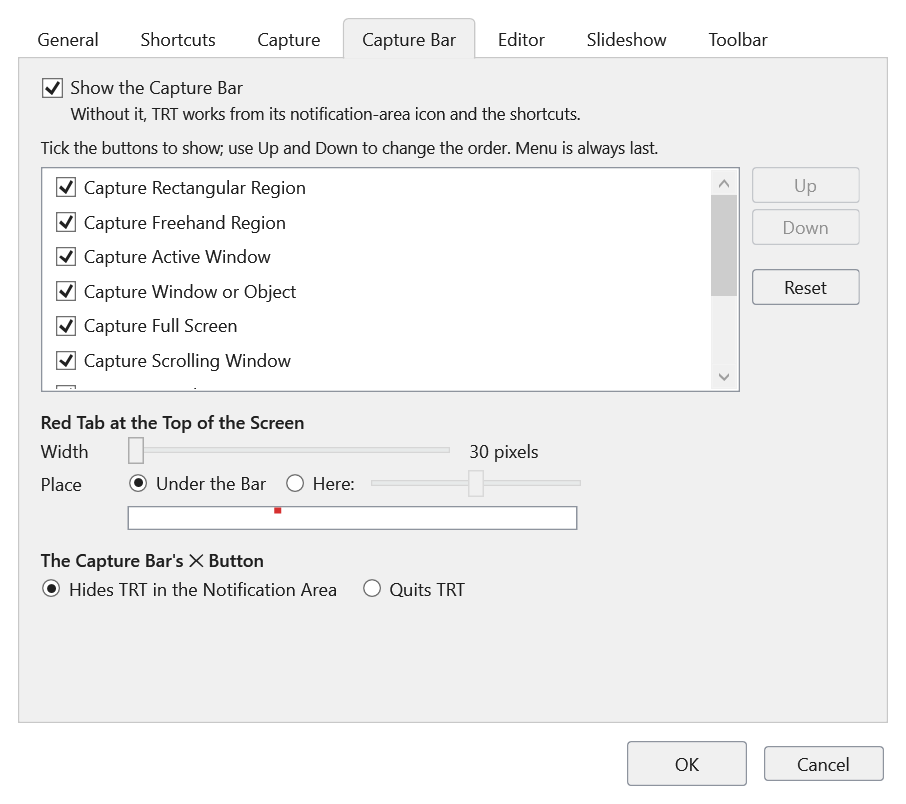
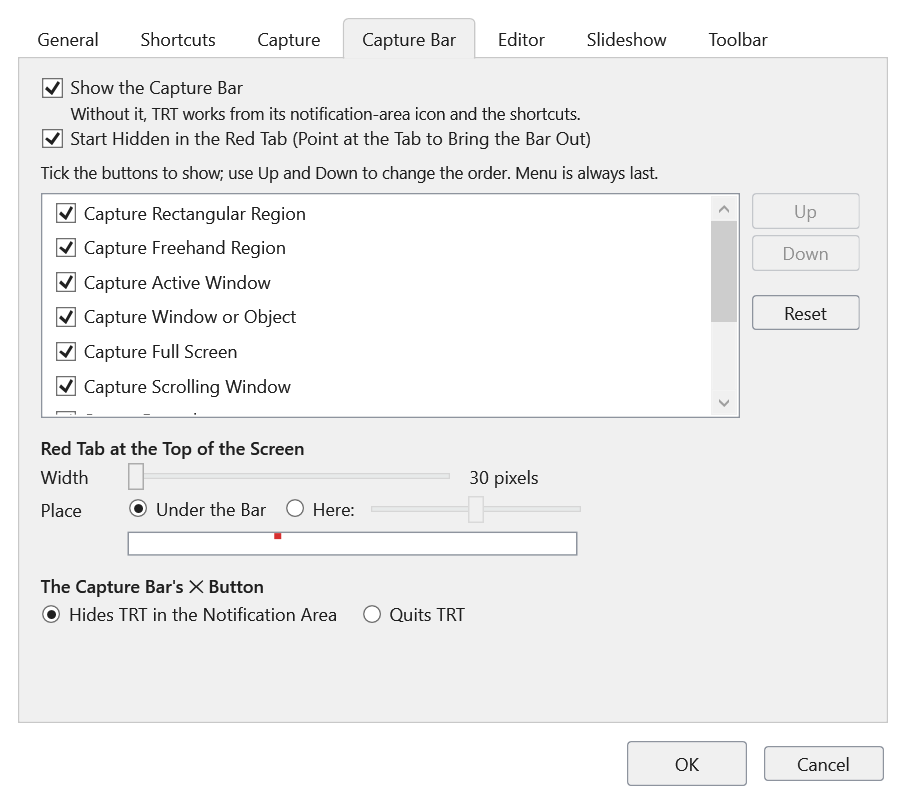
Capture bar starts hidden in the red tab (Settings > Capture Bar can start it open)

diff --git a/Desktop/SettingsWindow.xaml b/Desktop/SettingsWindow.xaml
@@ -87,7 +87,9 @@
    <TabItem Header="Capture Bar">
     <StackPanel>
      <CheckBox x:Name="ShowBarBox" Content="Show the Capture Bar" Margin="0,0,0,2"/>
-     <TextBlock Text="Without it, TRT works from its notification-area icon and the shortcuts." TextWrapping="Wrap" FontSize="11" Margin="20,0,0,8"/>
+     <TextBlock Text="Without it, TRT works from its notification-area icon and the shortcuts." TextWrapping="Wrap" FontSize="11" Margin="20,0,0,2"/>
+     <!-- 3.2.0 (David): start tucked away. -->
+     <CheckBox x:Name="StartInTabBox" Content="Start Hidden in the Red Tab (Point at the Tab to Bring the Bar Out)" Margin="0,0,0,8"/>
      <TextBlock Text="Tick the buttons to show; use Up and Down to change the order. Menu is always last." TextWrapping="Wrap" FontSize="11" Margin="0,0,0,6"/>
      <Grid>
       <Grid.ColumnDefinitions><ColumnDefinition Width="*"/><ColumnDefinition Width="Auto"/></Grid.ColumnDefinitions>

diff --git a/docs/help/TRT-Help.html b/docs/help/TRT-Help.html
@@ -376,7 +376,7 @@
 </table>
 <ul>
  <li><kbd>Ctrl</kbd>+<kbd>Print Screen</kbd> takes a rectangular screenshot at any time.</li>
- <li>The <span class="ui">–</span> button on the bar hides it in a thin red tab at the top of the screen. Point at the tab to bring the bar back.</li>
+ <li>The <span class="ui">–</span> button on the bar hides it in a thin red tab at the top of the screen. Point at the tab to bring the bar back. TRT starts with the bar in the tab; <span class="ui">Settings › Capture Bar</span> can start it open instead.</li>
  <li>You can drag the bar anywhere by its title. Drop it on the top edge of a screen and it tucks itself away.</li>
  <li>Click the TRT icon in the notification area to open the editor; double-click it to show the capture bar. <span class="ui">Settings › Editor</span> can swap them.</li>
 </ul>

diff --git a/Checks/Release320Checks.cs b/Checks/Release320Checks.cs
@@ -63,6 +63,25 @@ internal static class Release320Checks
             "Settings › Editor shows and keeps the line width, Auto Redaction Colour and the tray click choice");
         dialog.Close();
 
+        check(new AppSettings().StartBarInTab && !new SettingsWindow(new AppSettings { StartBarInTab = false }).Collect().StartBarInTab, "TRT starts with the capture bar in the red tab (Settings › Capture Bar can turn it off)");
+        {
+            var startTemp = Path.Combine(output, "release320-start"); if (Directory.Exists(startTemp)) Directory.Delete(startTemp, true); Directory.CreateDirectory(startTemp);
+            var startSaved = AppSettings.Path; AppSettings.Path = Path.Combine(output, "release320-start-settings.json"); if (File.Exists(AppSettings.Path)) File.Delete(AppSettings.Path);
+            var starting = new CaptureController(new ManagedPolicy(), false, startTemp) { MinimiseOnStart = true };
+            try
+            {
+                starting.Start();
+                check(starting.Bar is { IsVisible: false } && starting.Strip is { IsVisible: true }, "on start the bar waits in the red tab, not open");
+                starting.ShowBar();
+                check(starting.Bar!.IsVisible && starting.Strip?.IsVisible != true, "and comes out of the tab when asked (pointing at the tab, or the tray icon)");
+                File.WriteAllText(AppSettings.Path, "{\"StartBarInTab\": false}");
+                var open = new CaptureController(new ManagedPolicy(), false, startTemp) { MinimiseOnStart = true };
+                try { open.Start(); check(open.Bar is { IsVisible: true } && open.Strip?.IsVisible != true, "with the setting off, the bar starts open as before"); }
+                finally { open.Dispose(); }
+            }
+            finally { starting.Dispose(); AppSettings.Path = startSaved; }
+        }
+
         // ---- Pictures read by Windows ----
         var folder = Path.Combine(output, "release320"); if (Directory.Exists(folder)) Directory.Delete(folder, true); Directory.CreateDirectory(folder);
         var png = Path.Combine(folder, "see-through.png");

diff --git a/Desktop/SettingsWindow.xaml.cs b/Desktop/SettingsWindow.xaml.cs
@@ -49,6 +49,7 @@ public partial class SettingsWindow : Window
         HideOptionsBarBox.IsChecked = current.HideOptionsBar;
         LineWidthBox.Value = current.LineWidth; AutoColourSettingBox.IsChecked = current.AutoRedactionColour; // 3.2.0
         (current.TrayClickOpensEditor ? TrayEditorBox : TrayBarBox).IsChecked = true;
+        StartInTabBox.IsChecked = current.StartBarInTab;
         DelayChoice.SelectedItem = current.CaptureDelaySeconds;
         CapturePointerBox.IsChecked = current.CaptureMousePointer;
         FullScreenChoice.SelectedIndex = current.FullScreenAllMonitors ? 1 : 0;
@@ -264,6 +265,7 @@ public partial class SettingsWindow : Window
         Result.HideOptionsBar = HideOptionsBarBox.IsChecked == true;
         Result.LineWidth = (int)Math.Clamp(Math.Round(LineWidthBox.Value), AppSettings.MinLineWidth, AppSettings.MaxLineWidth);
         Result.AutoRedactionColour = AutoColourSettingBox.IsChecked == true; Result.TrayClickOpensEditor = TrayEditorBox.IsChecked == true;
+        Result.StartBarInTab = StartInTabBox.IsChecked == true;
         StartupChosen = StartupBox.IsChecked == true;
         ThemeChosen = ThemeShown;
         Result.CaptureDelaySeconds = DelayChoice.SelectedItem is int delay ? delay : 0;

diff --git a/Desktop/CaptureController.cs b/Desktop/CaptureController.cs
@@ -90,12 +90,16 @@ internal sealed class CaptureController : IDisposable
         {
             bar.Show();
             if (Settings.BarTop is { } savedTop && Math.Abs(savedTop - WorkAreaOf(bar).Top) < 1) BarMoved(); // Was docked last time.
+            // 3.2.0 (David): TRT starts with the bar tucked into the red tab; pointing at the tab brings it out.
+            if (Settings.StartBarInTab && (MinimiseOnStart ?? interactive)) MinimizeToStrip();
         }
         if (interactive)
         {
             bar.Dispatcher.BeginInvoke(DispatcherPriority.ApplicationIdle, () => { ReportShortcutProblems(); OfferAbandonedCleanup(); });
         }
     }
+    // Checks (which start without the real tray and shortcuts) set this to see the start-up tab.
+    internal bool? MinimiseOnStart { get; set; }
     private void PlaceBar()
     {
         if (bar == null) return;

diff --git a/Desktop/AppSettings.cs b/Desktop/AppSettings.cs
@@ -151,6 +151,8 @@ public sealed class AppSettings
     // 3.2.0 (David): a single click on the notification-area icon opens the editor and a double-click shows the capture
     // bar; false swaps them back (the bar on a single click, as before).
     public bool TrayClickOpensEditor { get; set; } = true;
+    // 3.2.0 (David): when TRT starts, the capture bar waits in the red tab at the top of the screen.
+    public bool StartBarInTab { get; set; } = true;
 
     internal static string Path { get; set; } = System.IO.Path.Combine(ProgramFolder, "settings.json");
     // The folder people see the program in. A standalone .exe unpacks itself to a temporary folder

diff --git a/docs/TEST-RESULTS.md b/docs/TEST-RESULTS.md
@@ -1,6 +1,6 @@
 # Verification: 3.2.0, 16 November 2026
 
-Status: **`Build-Dev.ps1` (build and all checks) passed: 1447 checks, none failed.** Build: 0 errors, 0 warnings. (The first full run stopped where an older check found the Draw menu by its position; the menu order changed, so it now finds menus by name. After David's video of 16 November the paste fix below was added and the full suite run again.)
+Status: **`Build-Dev.ps1` (build and all checks) passed: 1451 checks, none failed.** Build: 0 errors, 0 warnings. (The first full run stopped where an older check found the Draw menu by its position; the menu order changed, so it now finds menus by name. After David's video of 16 November the paste fix below was added and the full suite run again.)
 
 ## What changed
 - Auto redaction colour: Region.AutoColor; AutoColour.Sample takes the most common colour along a band 1.5 to 3 pixels either side of the shape's edge (turned shapes, ovals and polygons included) on the frame shown, after every draw, move, size or turn. The Auto tick box sits between Redaction Colour and the Eyedropper (redaction window and options bar). Choosing a colour turns it off. Settings › Editor › Auto Redaction Colour (off by default).
@@ -8,10 +8,11 @@ Status: **`Build-Dev.ps1` (build and all checks) passed: 1447 checks, none faile
 - New Image with the current picture: the picture is drawn into the new picture's pixels (NewPictureWindow.Compose) instead of a Picture item covering the canvas.
 - David's video (16 November): New Image at the clipboard's size, then Paste, still left a canvas-sized picture item that caught every click. Now a single picture pasted or added onto an empty New Image that fills it is flattened into it (FlattenImageAsync; Undo takes it back out), a picture that isn't selected is grabbed only by the Select tool (drawing tools draw over it), and Esc lets go of a selection.
 - Menus: File, Edit, View, Redact, Draw, Video, Capture, Help. Solid Fill / Blur Fill / Pixelate Fill; Redaction Colour…; Eyedropper; Solid in the redaction window. Paint-bucket icon; filled Rectangle, Oval and Polygon icons; larger Clear icons.
+- The capture bar starts hidden in the red tab (AppSettings.StartBarInTab, on by default; Settings, Capture Bar tab, can start it open). Checked: it starts in the tab, comes out when shown, and starts open with the setting off.
 - Drawing tools in David's order on the toolbar and in the Draw menu: Outline, Ellipse, Text, Line, Polyline, Pen (was Text first).
 - Settings › Editor: line width for new shapes (default 4, was 6); the tray click (default: click opens the editor, double-click shows the capture bar).
 
-## New checks (Release320Checks; `--release-320-only` runs these 37)
+## New checks (Release320Checks; `--release-320-only` runs these 41)
 - New Image the size of a picture, then that picture added: it becomes the image (no item), Save Media As saves it, and a redaction can be drawn on it at once. A smaller picture stays an item; let go of, the Rectangle tool draws over it; Select still moves it.
 - Auto colour finds the light blue around black text (not a dark average), the pink around a turned oval, the colour along a polygon's edge, and nothing on see-through pixels.
 - In the editor, through the real mouse path: with Auto on, a Solid Fill drawn over black text on light blue is light blue; moved onto pink it turns pink; choosing a colour turns Auto off; ticking Auto again matches at once; with Auto off a new box uses the chosen colour.
@@ -30,4 +31,4 @@ Status: **`Build-Dev.ps1` (build and all checks) passed: 1447 checks, none faile
 - Auto colour on video frames while playing (it samples the frame shown when the redaction is drawn or moved).
 
 ## Package
-- TinyRedactionTool-3.2.0.exe, 117 MB, SHA-256 0ACB2EC6196F71562B9C3A4BAB51A51128B19D1467416BA2CAD1C854A744D0A9 (product version 3.2.0).
+- TinyRedactionTool-3.2.0.exe, 117 MB, SHA-256 D68EB2261AEFF57335BE54C007285B866E8899AD9941F24A2DCAACF4B5C9B96A (product version 3.2.0).

diff --git a/CHANGELOG.md b/CHANGELOG.md
@@ -9,6 +9,7 @@
 - Settings › Editor: the line width new outlines, ellipses, lines and arrows, polylines and pen strokes start with (now 4, was 6).
 - The notification-area icon: a click opens the editor, a double-click shows the capture bar (Settings › Editor can swap them).
 - Clear Redactions and Clear Annotations icons are as large as the others.
+- TRT starts with the capture bar hidden in the red tab at the top of the screen (point at the tab to bring it out). Settings › Capture Bar can start it open instead.
 
 ## 3.1.3 (November 2026)
 - Toolbar spacer: Settings › Toolbar › Add Spacer puts a blank, button-sized gap anywhere on the editor's toolbar.

diff --git a/README.md b/README.md
@@ -38,7 +38,7 @@ Windows x64 and Windows PowerShell 5.1 are needed. Nothing is installed machine-
 
 1. `Bootstrap-Dev.ps1` downloads only the pinned .NET SDK and packages and checks their hashes.
 2. Put the approved FFmpeg and FFprobe binaries (hashes in [THIRD-PARTY.md](THIRD-PARTY.md)) in `tools/`.
-3. `Build-Dev.ps1` builds offline and runs the 1,447 checks.
+3. `Build-Dev.ps1` builds offline and runs the 1,451 checks.
 4. `Package-Standalone.ps1` makes the single `.exe` in `standalone/<version>/`.
 
 See [docs/ARCHITECTURE.md](docs/ARCHITECTURE.md) for how it fits together.
